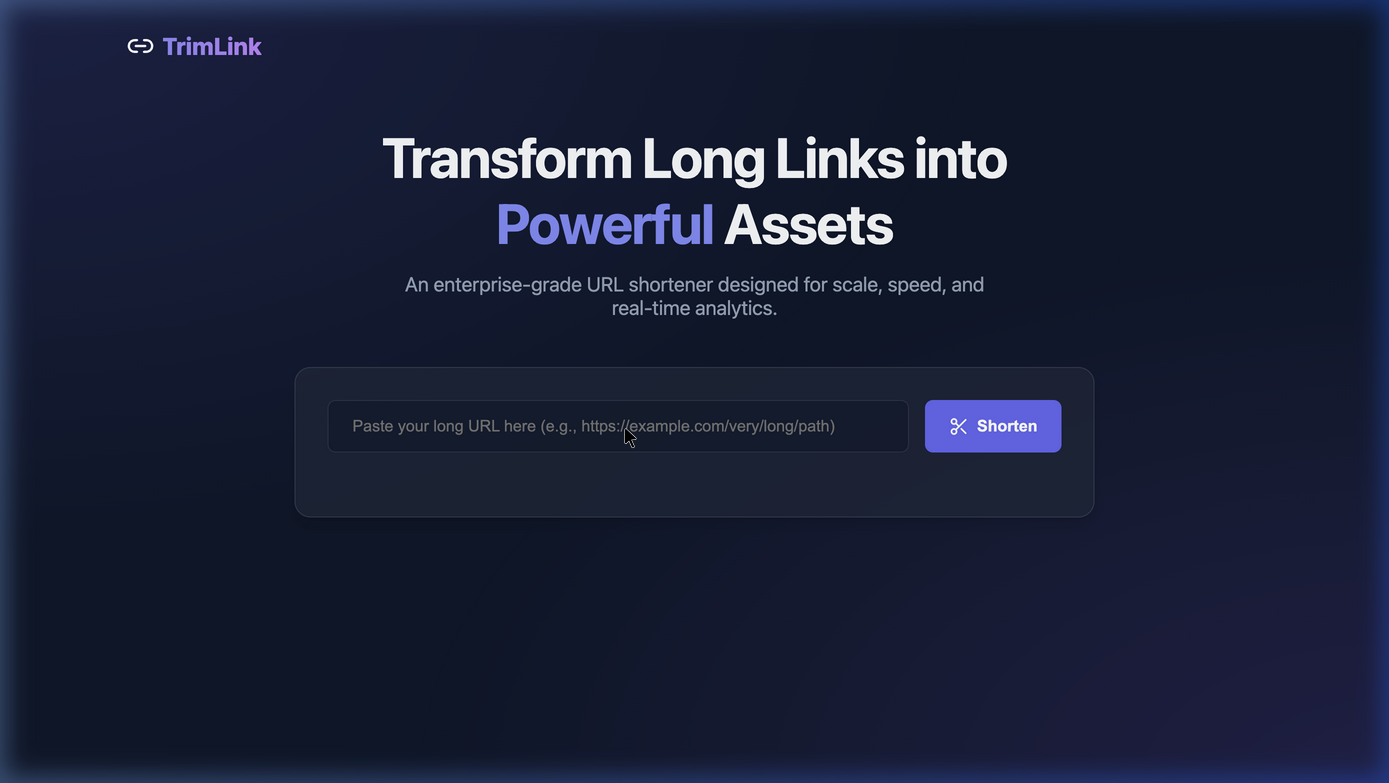
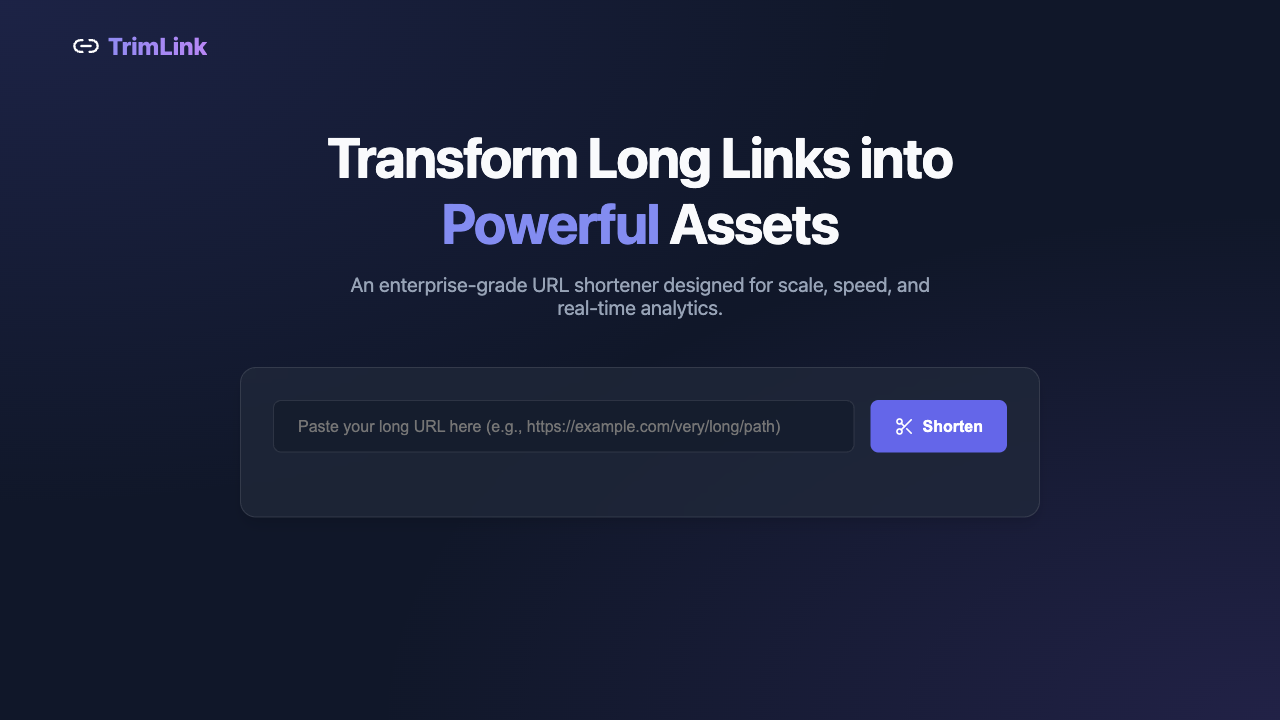
fix: refine analytics chart and demo screenshots

diff --git a/frontend/src/components/Analytics.jsx b/frontend/src/components/Analytics.jsx
@@ -1,9 +1,47 @@
 import { useState, useEffect } from 'react';
 import { useParams, Link } from 'react-router-dom';
 import axios from 'axios';
-import { AreaChart, Area, XAxis, YAxis, CartesianGrid, Tooltip, ResponsiveContainer } from 'recharts';
+import { BarChart, Bar, XAxis, YAxis, CartesianGrid, Tooltip, ResponsiveContainer } from 'recharts';
 import { ArrowLeft, Activity, MousePointerClick, Calendar, ExternalLink, Info } from 'lucide-react';
 import { BACKEND_URL } from '../config';
+
+function toDateKey(value) {
+  if (!value) return '';
+
+  const raw = String(value);
+  const isoDate = raw.match(/^\d{4}-\d{2}-\d{2}/)?.[0];
+  if (isoDate) return isoDate;
+
+  const date = new Date(value);
+  if (Number.isNaN(date.getTime())) return '';
+
+  const year = date.getFullYear();
+  const month = String(date.getMonth() + 1).padStart(2, '0');
+  const day = String(date.getDate()).padStart(2, '0');
+  return `${year}-${month}-${day}`;
+}
+
+function formatDateLabel(dateKey) {
+  if (!dateKey) return '';
+
+  return new Date(`${dateKey}T00:00:00`).toLocaleDateString('en-US', {
+    month: 'short',
+    day: 'numeric',
+  });
+}
+
+function DailyClicksTooltip({ active, payload, label }) {
+  if (!active || !payload?.length) return null;
+
+  const clicks = Number(payload[0]?.value ?? 0);
+
+  return (
+    <div className="chart-tooltip">
+      <span>{label}</span>
+      <strong>{clicks} {clicks === 1 ? 'click' : 'clicks'}</strong>
+    </div>
+  );
+}
 
 export default function Analytics() {
   const { code } = useParams();
@@ -16,7 +54,7 @@ export default function Analytics() {
       try {
         const response = await axios.get(`${BACKEND_URL}/api/stats/${code}`);
         setData(response.data);
-      } catch (err) {
+      } catch {
         setError('Failed to load analytics data.');
       } finally {
         setLoading(false);
@@ -49,25 +87,32 @@ export default function Analytics() {
   }
 
   const stats = Array.isArray(data.stats) ? data.stats : [];
-  
-  // Create a map of existing data for quick lookup
+
   const statsMap = {};
-  stats.forEach(s => {
-    const dateStr = new Date(s.date).toLocaleDateString('en-US', { month: 'short', day: 'numeric' });
-    statsMap[dateStr] = Number(s.count);
+  stats.forEach((stat) => {
+    const dateKey = toDateKey(stat.date);
+    const clicks = Number(stat.clicks ?? stat.count ?? 0);
+
+    if (dateKey) {
+      statsMap[dateKey] = (statsMap[dateKey] || 0) + clicks;
+    }
   });
 
-  // Build chart data for the last 7 days
   const chartData = [];
+  const today = new Date();
+
   for (let i = 6; i >= 0; i--) {
-    const d = new Date();
-    d.setDate(d.getDate() - i);
-    const dateStr = d.toLocaleDateString('en-US', { month: 'short', day: 'numeric' });
+    const date = new Date(today.getFullYear(), today.getMonth(), today.getDate() - i);
+    const dateKey = toDateKey(date);
+
     chartData.push({
-      date: dateStr,
-      clicks: statsMap[dateStr] || 0
+      date: formatDateLabel(dateKey),
+      clicks: statsMap[dateKey] || 0,
     });
   }
+
+  const maxDailyClicks = Math.max(0, ...chartData.map((item) => item.clicks));
+  const yAxisMax = Math.max(1, maxDailyClicks);
 
   return (
     <div>
@@ -129,22 +174,20 @@ export default function Analytics() {
         )}
         <div className="chart-container">
           <ResponsiveContainer width="100%" height="100%">
-            <AreaChart data={chartData} margin={{ top: 10, right: 30, left: 0, bottom: 0 }}>
-              <defs>
-                <linearGradient id="colorClicks" x1="0" y1="0" x2="0" y2="1">
-                  <stop offset="5%" stopColor="#818cf8" stopOpacity={0.8}/>
-                  <stop offset="95%" stopColor="#818cf8" stopOpacity={0}/>
-                </linearGradient>
-              </defs>
+            <BarChart data={chartData} margin={{ top: 10, right: 18, left: 0, bottom: 0 }}>
               <CartesianGrid strokeDasharray="3 3" stroke="rgba(255,255,255,0.1)" vertical={false} />
               <XAxis dataKey="date" stroke="var(--text-muted)" tick={{ fill: 'var(--text-muted)' }} tickLine={false} axisLine={false} />
-              <YAxis stroke="var(--text-muted)" tick={{ fill: 'var(--text-muted)' }} tickLine={false} axisLine={false} />
-              <Tooltip 
-                contentStyle={{ backgroundColor: 'var(--card-bg)', border: '1px solid var(--card-border)', borderRadius: '0.5rem', color: '#fff' }}
-                itemStyle={{ color: '#818cf8' }}
+              <YAxis
+                allowDecimals={false}
+                domain={[0, yAxisMax]}
+                stroke="var(--text-muted)"
+                tick={{ fill: 'var(--text-muted)' }}
+                tickLine={false}
+                axisLine={false}
               />
-              <Area type="monotone" dataKey="clicks" stroke="#818cf8" strokeWidth={3} fillOpacity={1} fill="url(#colorClicks)" />
-            </AreaChart>
+              <Tooltip cursor={{ fill: 'rgba(129, 140, 248, 0.08)' }} content={<DailyClicksTooltip />} />
+              <Bar dataKey="clicks" fill="#818cf8" radius={[8, 8, 0, 0]} maxBarSize={72} />
+            </BarChart>
           </ResponsiveContainer>
         </div>
       </div>

diff --git a/frontend/src/index.css b/frontend/src/index.css
@@ -201,6 +201,28 @@ body {
   margin-top: 2rem;
 }
 
+.chart-tooltip {
+  display: flex;
+  flex-direction: column;
+  gap: 0.25rem;
+  min-width: 112px;
+  padding: 0.75rem 0.9rem;
+  border: 1px solid rgba(129, 140, 248, 0.28);
+  border-radius: 0.75rem;
+  background: rgba(15, 23, 42, 0.92);
+  box-shadow: 0 18px 36px rgba(0, 0, 0, 0.28);
+}
+
+.chart-tooltip span {
+  color: var(--text-muted);
+  font-size: 0.78rem;
+}
+
+.chart-tooltip strong {
+  color: var(--text-main);
+  font-size: 0.95rem;
+}
+
 @media (max-width: 768px) {
   .input-group {
     flex-direction: column;

diff --git a/backend/controllers/url_controller.go b/backend/controllers/url_controller.go
@@ -123,13 +123,13 @@ func GetStats(c *gin.Context) {
 
 	// Aggregate click logs by day for the chart
 	type DailyStats struct {
-		Date  string `json:"date"`
-		Count int64  `json:"count"`
+		Date   string `json:"date"`
+		Clicks int64  `json:"clicks"`
 	}
 
 	var stats []DailyStats
 	database.DB.Model(&models.ClickLog{}).
-		Select("DATE(created_at) as date, count(id) as count").
+		Select("DATE(created_at) as date, count(id) as clicks").
 		Where("short_code = ?", shortCode).
 		Group("DATE(created_at)").
 		Order("date ASC").

diff --git a/README.md b/README.md
@@ -4,20 +4,22 @@ TrimLink 是一个面向实际部署场景的短链接系统，采用 `React + V
 
 ## Demo 演示
 
+以下截图均为应用页面本体截图，不包含浏览器窗口外框，便于在 GitHub README 中保持更干净的展示效果。
+
 ### 1. 首页与生成
 输入长链接即可快速生成唯一的短码，界面简洁美观，支持一键复制。
 
-![首页](docs/images/home.png)
+<img src="docs/images/home.png" alt="TrimLink 首页与生成入口" width="100%">
 
 ### 2. 生成结果
 生成后可直接查看短链接，并提供进入分析页面的入口。
 
-![生成结果](docs/images/result.png)
+<img src="docs/images/result.png" alt="TrimLink 短链接生成结果" width="100%">
 
 ### 3. 数据分析
-实时统计短链接的访问数据，包括总点击量、服务状态以及每日访问趋势图。
+实时统计短链接的访问数据，包括总点击量、服务状态以及每日访问趋势图，图表使用整数刻度展示每日点击次数。
 
-![数据分析](docs/images/analytics.png)
+<img src="docs/images/analytics.png" alt="TrimLink 数据分析页" width="100%">
 
 ## 项目亮点
 
